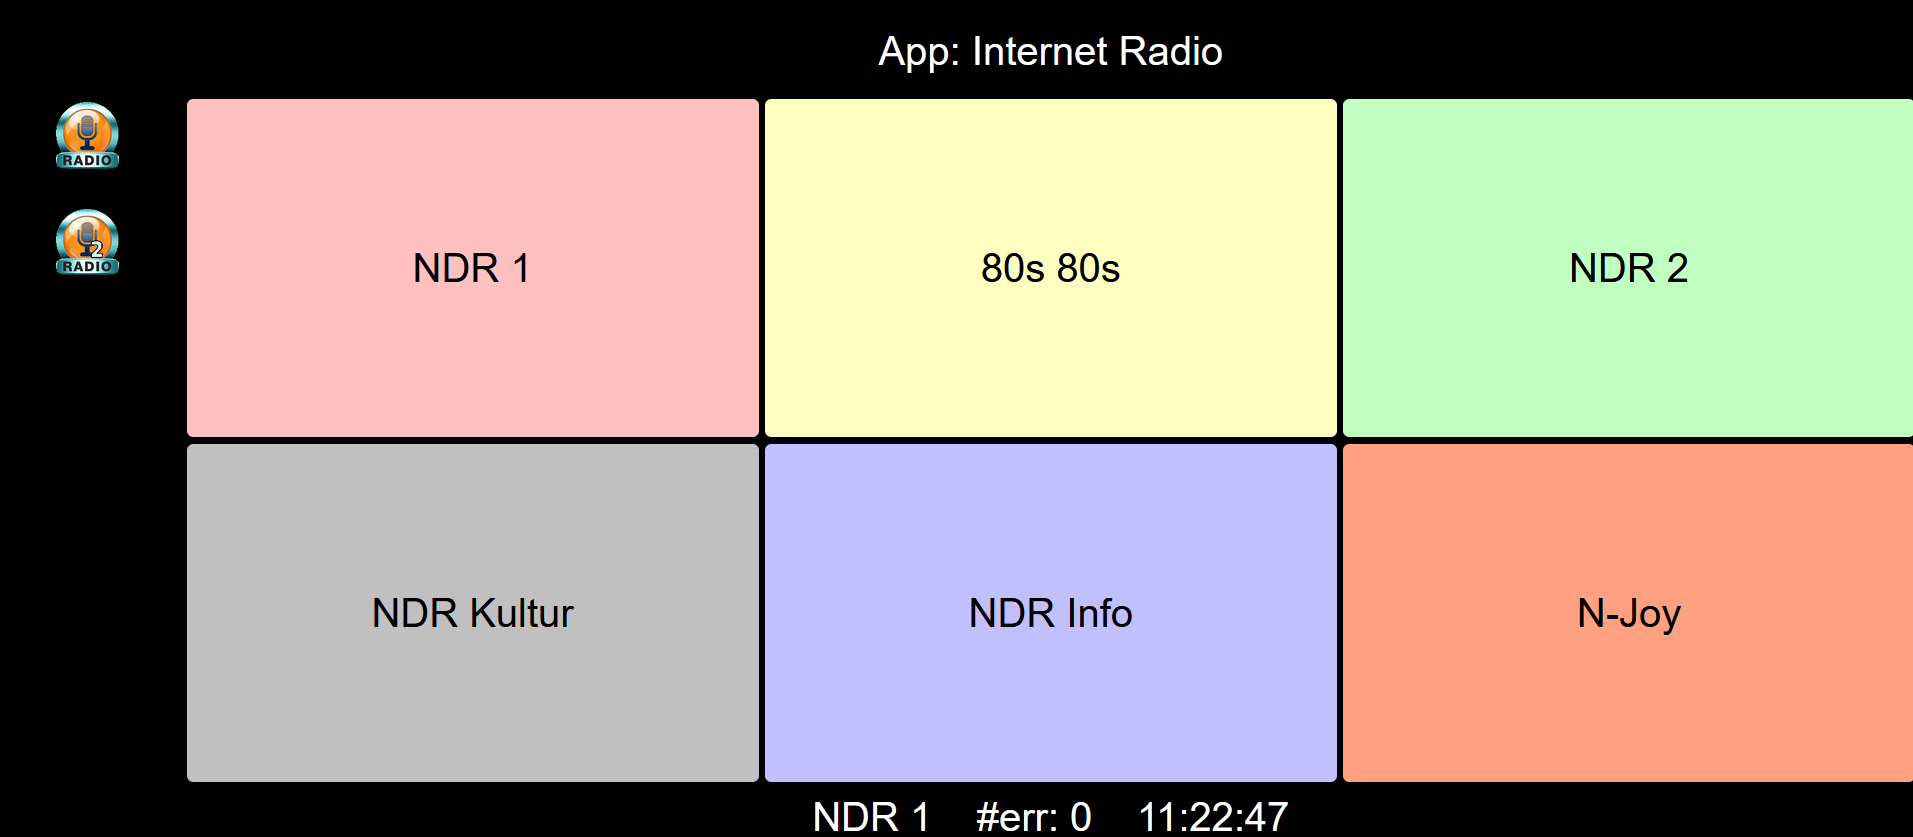
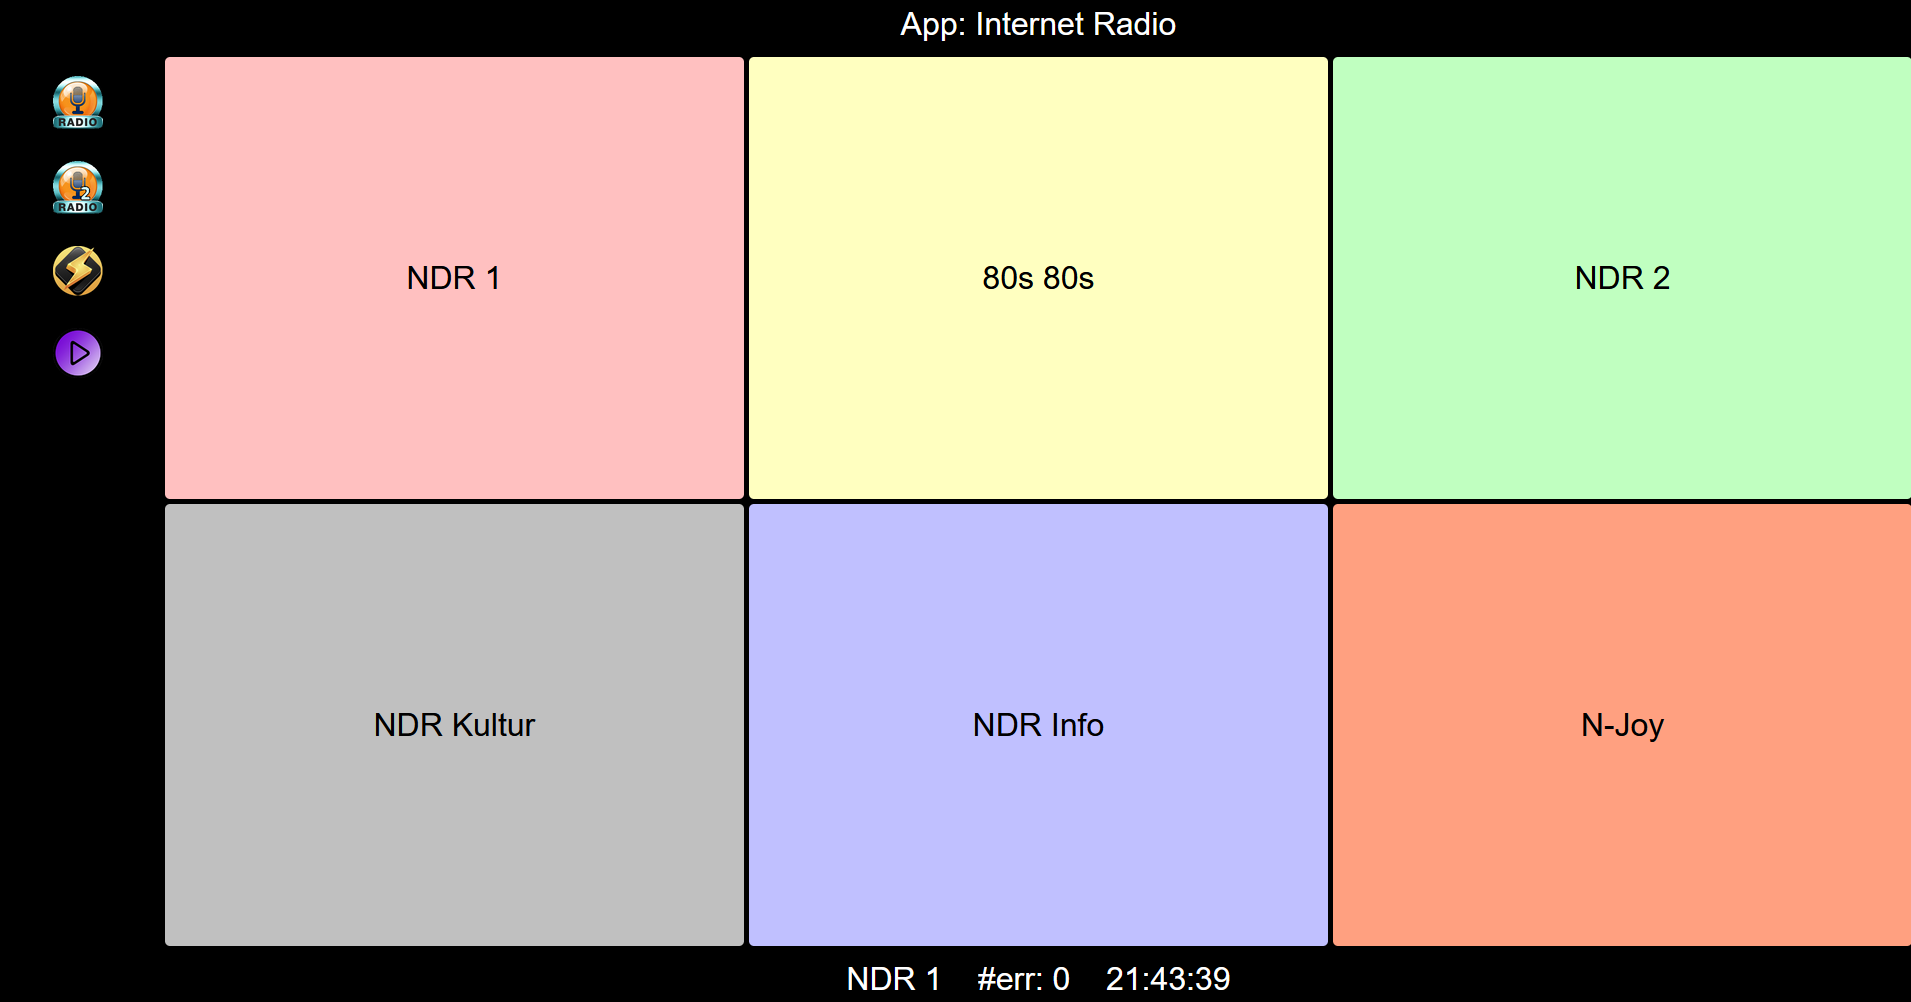
Add video playback.

diff --git a/media_server/app.js b/media_server/app.js
@@ -45,13 +45,13 @@ app.use(bodyParser.json());
  */
 app.use((req, res, next) => {
   res.setHeader("Access-Control-Allow-Origin", "*"); // allow all domains
-  //res.setHeader("Access-Control-Allow-Methods", "GET, PUT, DELETE");
   res.setHeader("Access-Control-Allow-Methods", "GET");
   res.setHeader("Access-Control-Allow-Headers", "Content-Type");
 
   next();
 });
 
+// ======================== Music ========================
 
 /**
  * /music/showFolder
@@ -119,24 +119,84 @@ app.get("/music/stream", (req, res) => {
   const absoluteFilePath = musicDir + '/' + req.query.relativeFilePath;
   res.sendFile(absoluteFilePath, (err) => {
     if (err) {
-      console.log('Problem sending file ' + absoluteFilePath + ': ' + err);
+      //console.log('Problem sending file ' + absoluteFilePath + ': ' + err);
       res.status(500).send('Problem sending file ' + req.query.relativeFilePath + ': ' + err);
       return;
     } else {
-      console.log('File sent successfully: ' + absoluteFilePath);
-
-      // ERR_HTTP_HEADERS_SENT happens on sending status 200 when pressing the back button while a playback is running;
-      // no idea why :-(   => However, catching that error here helps.
-      try {
-        res.status(200).send();
-      } catch (e) {
-        console.log('Error sending status 200: ' + e);
-      }
+      //console.log('File sent successfully: ' + absoluteFilePath);
       return;
     }
   });
 });
 
+// ======================== Video ========================
+
+/**
+ * /video/showFolder
+ * 
+ * @return The names of the files contained in the global video directory, in JSON,
+ *         in the form
+ *           {
+ *             files: ['file1', ...]
+ *           }
+ * 
+ * Example:
+ *   http://localhost:3000/video/showFolder
+ */ 
+app.get("/video/showFolder", (req, res) => {
+  // extract files
+  let files = [];
+  fs.readdirSync(videoDir).forEach(entry => {
+    if (fs.lstatSync(videoDir + '/' + entry).isDirectory()) {
+      ; // skip directories
+    }
+    if (fs.lstatSync(videoDir + '/' + entry).isFile()) {
+      files.push(entry);
+    }
+  });
+
+  res.status(200).json({
+    files: files,
+  });
+  return;
+});
+
+
+/**
+ * /video/stream
+ * 
+ * @param relativeFilePath Relative file path (relative to the local video directory)
+ *                         to a local video file.
+ * @return That file.
+ * 
+ * Example:
+ *   http://localhost:3000/video/stream?relativeFilePath=80er\Piano%20Band\Piano.mp4
+ */
+app.get("/video/stream", (req, res) => {
+  if (!req.query.relativeFilePath) {
+    res.status(500).send('relativeFilePath argument missing!');
+    return;
+  }
+
+  // do not allow ".." substrings, so that files from other places cannot be accessed
+  if (req.query.relativeFilePath.includes('..')) {
+    res.status(500).send('relativeFilePath is invalid!');
+    return;
+  }
+
+  const absoluteFilePath = videoDir + '/' + req.query.relativeFilePath;
+  res.sendFile(absoluteFilePath, (err) => {
+    if (err) {
+      //console.log('Problem sending file ' + absoluteFilePath + ': ' + err);
+      return;
+    } else {
+      //console.log('File sent successfully: ' + absoluteFilePath);
+      return;
+    }
+  });
+});
+
+// ======================== Generic ========================
 
 /**
  * Fallback to error 404 for remaining requests.

diff --git a/src/app/app-music/app-music.component.ts b/src/app/app-music/app-music.component.ts
@@ -1,6 +1,6 @@
 import { afterRender, ChangeDetectorRef, Component, computed, DestroyRef, effect, ElementRef, inject, Input, signal, ViewChild } from '@angular/core';
-import { FolderContents, ViewMode } from './app-music.model';
-import { MediaServerAccessService } from './app-music.media-server-access.service';
+import { MusicFolderContents, ViewMode } from './app-music.model';
+import { MediaServerAccessService } from '../shared/app-music.media-server-access.service';
 
 // Workaround: found no other possibility to access the musicComponent inside playNextFile().
 let musicComponent: MusicComponent | undefined = undefined;
@@ -25,7 +25,7 @@ export class MusicComponent {
                                                          // currentSongName in onSelectPlayableFile()
 
   private relativeDirectory = signal<string>('.'); // change of relativeDirectory triggers updates of remaining properties once HTTP request is done
-  folderContents: FolderContents = {
+  folderContents: MusicFolderContents = {
     directories: [],
     files: [],
   };
@@ -91,7 +91,7 @@ export class MusicComponent {
    * Then, sets the viewMode depending on the results.
    */
   readAndProcessFolderContents() {
-    const subscription = this.mediaServerAccessService.getFolderContents(this.relativeDirectory())
+    const subscription = this.mediaServerAccessService.getMusicFolderContents(this.relativeDirectory())
     .subscribe((folderContents) => {
       this.folderContents = {
         directories : folderContents.directories,
@@ -113,7 +113,7 @@ export class MusicComponent {
    *          If there is at least 1 directory, view mode is VIEW_MODE_FOLDER,
    *          VIEW_MODE_PLAYBACK otherwise.
    */
-  computeViewMode(folderContents: FolderContents): ViewMode {
+  computeViewMode(folderContents: MusicFolderContents): ViewMode {
     if (folderContents.directories.length > 0) {
       return ViewMode.VIEW_MODE_FOLDER;
     } else {
@@ -249,7 +249,7 @@ export class MusicComponent {
   onSelectPlayableFile(fileName: string) {
     this.stopPlayback();
     
-    this.audioElement.nativeElement.src = this.mediaServerAccessService.getFileStreamURL(this.relativeDirectory() + '/' + fileName);
+    this.audioElement.nativeElement.src = this.mediaServerAccessService.getMusicFileStreamURL(this.relativeDirectory() + '/' + fileName);
     this.audioElement.nativeElement.load();
     this.audioElement.nativeElement.play();
 

diff --git a/src/app/shared/app-music.media-server-access.service.ts b/src/app/shared/app-music.media-server-access.service.ts
@@ -1,0 +1,47 @@
+import { inject, Injectable } from "@angular/core";
+import { MusicFolderContents } from "../app-music/app-music.model";
+import { HttpClient } from "@angular/common/http";
+
+@Injectable({
+    providedIn: 'root',
+})
+export class MediaServerAccessService {
+    private httpClient = inject(HttpClient);
+    private MUSIC_SHOW_FOLDER_URL = 'http://localhost:3000/music/showFolder';
+    private MUSIC_STREAM_FILE_URL = 'http://localhost:3000/music/stream';
+    private VIDEO_SHOW_FOLDER_URL = 'http://localhost:3000/video/showFolder';
+    private VIDEO_STREAM_FILE_URL = 'http://localhost:3000/video/stream';
+
+    /**
+     * @param relativeDirectory Directory relative to the global music directory.
+     * @returns An observable representing the associated HTTP get request.
+     */
+    getMusicFolderContents(relativeDirectory: string) {
+        return this.httpClient.get<MusicFolderContents>(this.MUSIC_SHOW_FOLDER_URL + '?relativeDirectory=' + relativeDirectory);
+    }
+
+    /**
+     * 
+     * @param relativeFilePath File path relative to the global music directory.
+     * @returns The URL for streaming that file.
+     */
+    getMusicFileStreamURL(relativeFilePath: string): string {
+        return this.MUSIC_STREAM_FILE_URL + '?relativeFilePath=' + relativeFilePath;
+    }
+
+    /**
+     * @returns An observable representing the associated HTTP get request.
+     */
+    getVideoFolderContents() {
+        return this.httpClient.get<MusicFolderContents>(this.VIDEO_SHOW_FOLDER_URL);
+    }
+
+    /**
+     * 
+     * @param relativeFilePath File path relative to the global video directory.
+     * @returns The URL for streaming that file.
+     */
+    getVideoFileStreamURL(relativeFilePath: string): string {
+        return this.VIDEO_STREAM_FILE_URL + '?relativeFilePath=' + relativeFilePath;
+    }
+}

diff --git a/src/app/app-video/app-video.component.ts b/src/app/app-video/app-video.component.ts
@@ -1,0 +1,45 @@
+import { Component, DestroyRef, inject, Input, OnInit } from '@angular/core';
+import { MediaServerAccessService } from '../shared/app-music.media-server-access.service';
+import { VideoFolderContents } from './app-video.model';
+
+@Component({
+  selector: 'app-video',
+  imports: [],
+  templateUrl: './app-video.component.html',
+  styleUrl: './app-video.component.css'
+})
+export class VideoComponent implements OnInit {
+  @Input({required: true}) title!: string;
+
+  private mediaServerAccessService = inject(MediaServerAccessService);
+  folderContents: VideoFolderContents = {
+    files: [],
+  };
+  private destroyRef = inject(DestroyRef);
+
+  ngOnInit() {
+    this.readAndProcessFolderContents();
+  }
+
+  readAndProcessFolderContents() {
+    const subscription = this.mediaServerAccessService.getVideoFolderContents()
+      .subscribe((folderContents) => {
+        this.folderContents = {
+          files: folderContents.files,
+        };
+      });
+
+      this.destroyRef.onDestroy(() => {
+        subscription.unsubscribe();
+      });
+  }
+
+  /**
+   * @param fileName 
+   * @returns The file stream URL for fileName.
+   */
+  getVideoFileStreamURL(fileName: string) {
+    return this.mediaServerAccessService.getVideoFileStreamURL(fileName);
+  }
+
+}

diff --git a/src/app/app.component.ts b/src/app/app.component.ts
@@ -6,10 +6,11 @@ import { AllowedApps } from './shared/app-common-types.model';
 import { RADIO_STATIONS1, RADIO_STATIONS2 } from './shared/app-radio-stations.model';
 import { RadioStation } from './shared/app-radio.model';
 import { MusicComponent } from './app-music/app-music.component';
+import { VideoComponent } from "./app-video/app-video.component";
 
 @Component({
   selector: 'app-root',
-  imports: [RouterOutlet, MenuComponent, RadioComponent, MusicComponent],
+  imports: [RouterOutlet, MenuComponent, RadioComponent, MusicComponent, VideoComponent],
   templateUrl: './app.component.html',
   styleUrl: './app.component.css'
 })

diff --git a/src/app/app-video/app-video.component.css b/src/app/app-video/app-video.component.css
@@ -1,0 +1,32 @@
+* {
+  font-family: Arial;
+}
+
+.container {
+  display: grid;
+  grid-template-areas: "header"
+                       "list";
+  grid-template-columns: 1fr;
+  grid-template-rows: 3.5em auto;
+  gap: 5px;
+  background-color: black;
+  height: 100%;
+  width: 100%;
+}
+
+.content {
+  color: white;
+  text-align: center;
+  font-size: 200%;
+  display: flex;
+  flex-direction: column;
+  justify-content: center;
+}
+
+.header {
+  grid-area: header;
+}
+
+.list {
+  grid-area: list;
+}

diff --git a/src/app/app-video/app-video.component.html b/src/app/app-video/app-video.component.html
@@ -1,0 +1,13 @@
+<div id="container" class="container">
+  <div id="header" class="header content">{{title}}</div>>
+  <div id="list" class="list content">
+    @for (fileName of folderContents.files; track fileName) {
+      <p>
+        <video width="100%" controls>
+          <source [src]="getVideoFileStreamURL(fileName)" type="video/mp4">
+          Your browser does not support the video tag.
+        </video>
+      </p>
+    }
+  </div>
+</div>

diff --git a/src/app/app-menu/app-menu.component.html b/src/app/app-menu/app-menu.component.html
@@ -12,8 +12,8 @@
         <img src="winamp_icon.png" alt="music icon" width="50" (click)="onSelectApp('music')" />
     </div>
 
-    <!--<div class="menu-item_cls" id="video">
+    <div class="menu-item_cls" id="video">
         <img src="video_icon.png" alt="video icon" width="50" (click)="onSelectApp('video')" />
-    </div>-->
+    </div>
 
 </div>

diff --git a/src/app/app.component.html b/src/app/app.component.html
@@ -19,6 +19,9 @@
     @if (activeApp === 'music') {
       <app-music class="content" title="App: Local Music"/>
     }
+    @if (activeApp === 'video') {
+      <app-video class="content" title="App: Local Video"/>
+    }
   </div>
 </main>
 

diff --git a/src/app/app-music/app-music.model.ts b/src/app/app-music/app-music.model.ts
@@ -1,4 +1,4 @@
-export type FolderContents = {
+export type MusicFolderContents = {
     directories: string[],
     files: string[],
 };

diff --git a/src/app/app-video/app-video.model.ts b/src/app/app-video/app-video.model.ts
@@ -1,0 +1,3 @@
+export type VideoFolderContents = {
+    files: string[],
+};

diff --git a/README.md b/README.md
@@ -2,7 +2,7 @@
 Internet radio website based on Angular2.
 Related project for pure Javascript / HTML: https://github.com/hgaedke/iradio_js .
 
-This readme file contains a how-to for Windows as well as for Rasbian (running on Raspberry PI).
+This readme file contains a how-to for Windows as well as for Rasbian (running on Raspberry Pi).
 
 # How-to for Windows
 ![Screenshot of the internet radio app in Firefox browser on Windows.](/../main/docs/iradio_home_windows.png)
@@ -22,23 +22,23 @@ This readme file contains a how-to for Windows as well as for Rasbian (running o
 * Click one of the radio station buttons and listen to the music.
 * To adjust the radio stations to use and the background colors, edit "c:\iradio_angular\iradio\src\app\shared\app-radio-stations.ts" and rebuild.
 
-## Use the local music playback in addition (feature still in development)
+## Use the local music and video playback in addition
 In addition to the previous steps:
 * Copy MP3 music files of your choice to the music folder, where each music file needs to be located in an album directory, e.g.  
-`c:\iradio_js\music\my_album\my_music.mp3`  
+        `c:\iradio_js\music\my_album\my_music.mp3`  
 You can have multiple files per album and multiple albums as well.
+* Copy video files (.mp4) of your choice to folder  
+        `c:\iradio_js\video`  
 * Start the media server by going to the media_server subdirectory and running  
-        `node app.js "c:/iradio_js/music" videoDir`  
-where "c:/iradio_js/music" is used as global music directory in this example. Just ignore the "videoDir" parameter; it's just a placeholder for future development. However, it must be any non-empty string.
+        `node app.js "c:/iradio_js/music" "c:/iradio_js/video"`  
+where "c:/iradio_js/music" is used as global music directory and "c:/iradio_js/video" is used as global video directory in this example.
 * Open "http://localhost:8080" in your local browser.
 * Click on the flash button in the left toolbar to show your music albums. Click on an album to enter it and to play the music inside.
-
-### Known problems
-* No scrolling yet (will come soon).
+* Click on the play button in the left toolbar to show your videos. Use the HTML media controls to start/stop a video. Scroll down to see the other videos.
 
 
 # How-to for Rasbian
-This assumes that you have a Raspberry PI with Rasbian OS and a touch screen attached, and that you use username "pi".
+This assumes that you have a Raspberry Pi with Rasbian OS and a touch screen attached, and that you use username "pi".
 
 ## Install, run
 * Make sure you have NodeJS >= v18 and npm installed.
@@ -63,9 +63,10 @@ This assumes that you have a Raspberry PI with Rasbian OS and a touch screen att
         `@http-server /home/pi/Desktop/iradio_angular`  
         `@chromium-browser --start-fullscreen --incognito --autoplay-policy=no-user-gesture-required http://localhost:8080`  
 
-## Install and use the local music playback in addition
+## Install and use the local music and video playback in addition
 In addition to the previous steps:
 * Copy MP3 music files of your choice to folder "/music", where each music file needs to be located in an album directory, e.g. "/music/my_album/my_music.mp3". You can have multiple files per album and multiple albums as well.
+* Copy video files (.mp4) of your choice to folder "/video".
 * Have the MediaServer started automatically on login by adding this line to "/etc/xdg/lxsession/LXDE-pi/autostart":  
         `@node /home/pi/Desktop/iradio_angular/media_server/app.js /music /video`
     * The full iradio-related content of "/etc/xdg/lxsession/LXDE-pi/autostart" then is:  
@@ -74,3 +75,4 @@ In addition to the previous steps:
         `@chromium-browser --start-fullscreen --incognito --autoplay-policy=no-user-gesture-required http://localhost:8080`
 * Restart your Raspberry.
 * Click on the flash button in the left toolbar to show your music albums. Click on an album to enter it and to play the music inside.
+* Click on the play button in the left toolbar to show your videos. Use the HTML media controls to start/stop a video. Scroll down to see the other videos.
